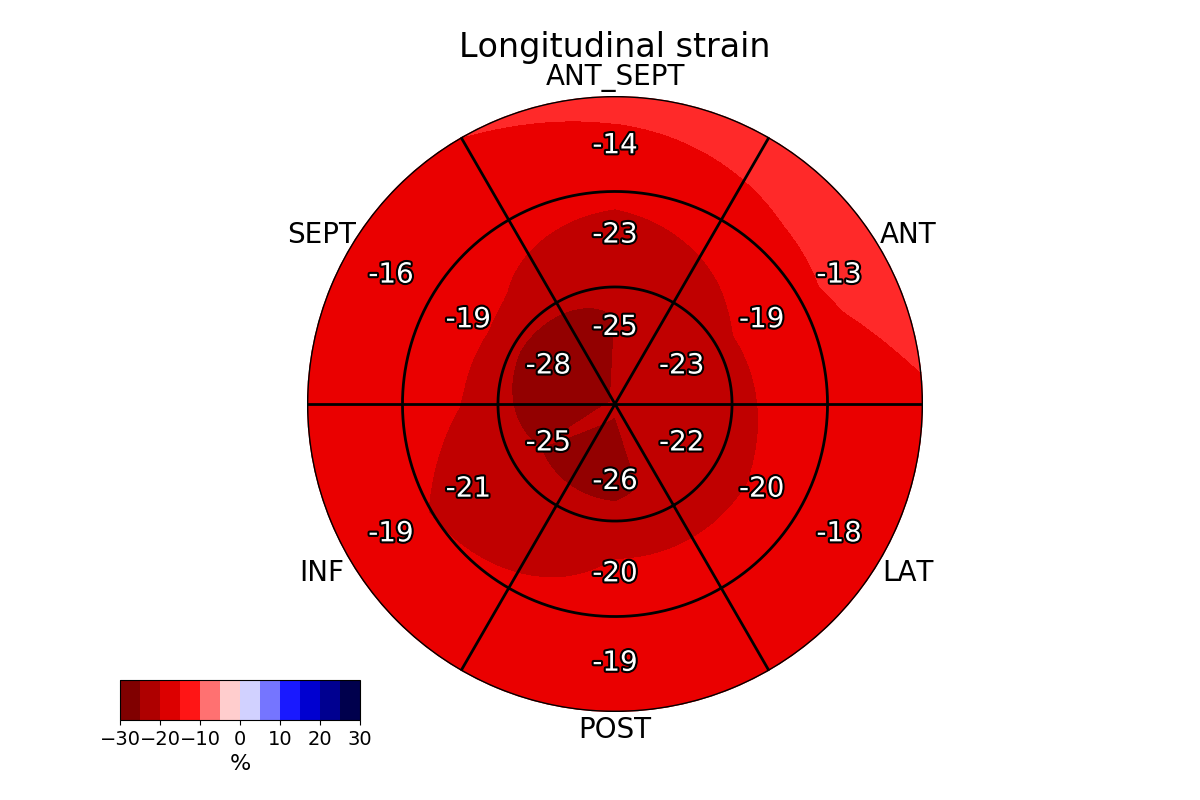
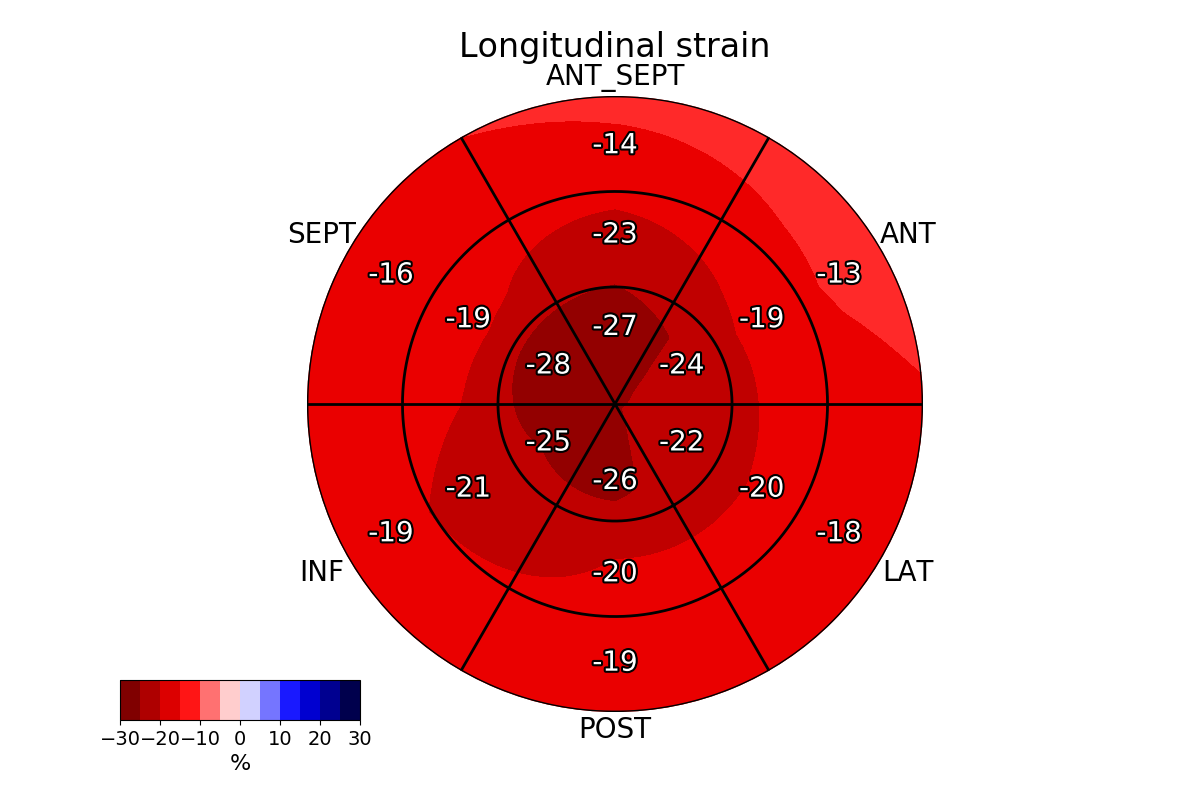
Adding images

Changed region(s): [[0.4625, 0.3438, 0.5858, 0.5625]]

diff --git a/test_18.py b/test_18.py
@@ -2,7 +2,7 @@ from ahasmoothplot import SmoothAHAPlot
 import pandas as pd
 
 
-exp_strain_data = [-13, -14, -16, -19, -19, -18, -19, -23, -19, -21, -20, -20, -23, -25, -28, -25, -26, -22]
+exp_strain_data = [-13, -14, -16, -19, -19, -18, -19, -23, -19, -21, -20, -20, -24, -27, -28, -25, -26, -22]
 exp_mw_data = [1926, 1525, 1673, 2048, 2325, 2200, 2197, 2014, 1982, 2199, 2431, 2409, 2554, 2961, 2658, 2329, 2533, 2441]
 n_seg = 18
 echop = False
